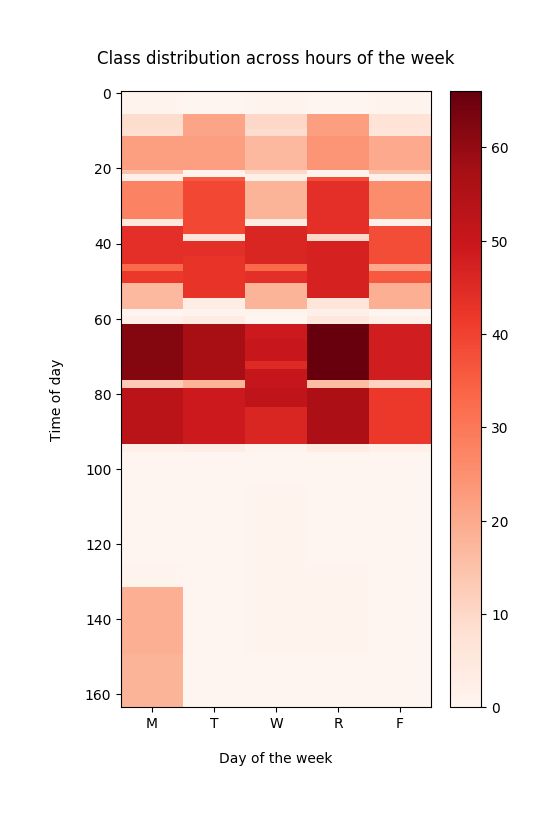
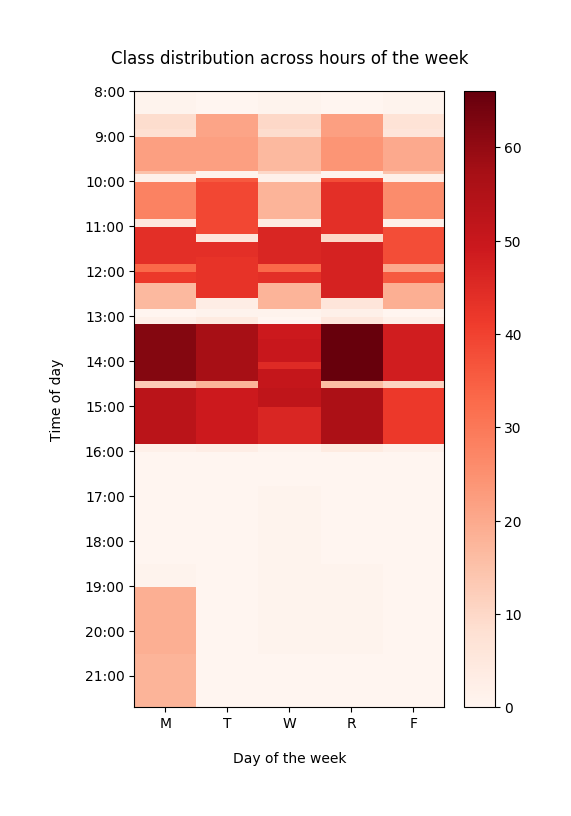
added yticks representing time

diff --git a/colorplot.py b/colorplot.py
@@ -27,8 +27,21 @@ def plot(filename, cmap):
 
     plt.title('Class distribution across hours of the week', pad=20, loc='center')
     plt.ylabel('Time of day', labelpad=15)
+
+    def hourlist():
+        l = []
+        for i in range(8*60, 1300, 60): #8:00 am to 9:40 pm
+            hour = i//60
+            min = i % 60
+            l.append(f"{hour}:{min}0")
+        return l
+
+    ticks = hourlist()
+    plt.yticks(range(-1,(1300-8*60)//5,12), ticks)
+
     plt.xlabel('Day of the week', labelpad=15)
     plt.xticks(list(range(5)), 'MTWRF')
+
     plt.savefig(f'{filename}.png',
                 orientation='portrait',
                 quality=90,
